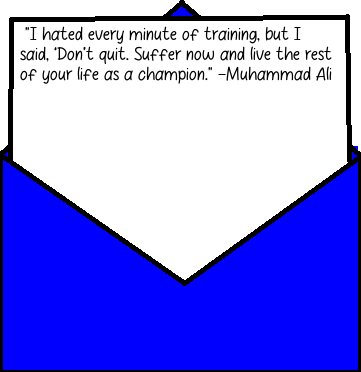
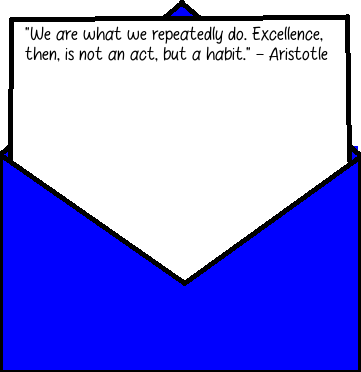
Readme of the project

Changed region(s): [[0.0609, 0.0591, 0.9141, 0.2366]]

diff --git a/README.md b/README.md
@@ -1,2 +1,129 @@
-# CS50x
-Store all CS50x course work and projects
+# Final project - InspireVerse
+
+Website that gives motivation phrases everyday for the user
+
+## Starting
+
+### Tools
+
+![Visual Studio Code](https://img.shields.io/badge/-Visual%20Studio%20Code-0D1117?style=for-the-badge&logo=visual-studio-code&logoColor=007ACC&labelColor=0D1117)&nbsp;
+
+- Start a virtual environment
+
+```
+> mkdir myproject
+> cd myproject
+> py -3 -m venv .venv
+>.venv\Scripts\activate
+```
+
+
+- Install flask and flask_session
+
+```
+pip install Flask
+```
+```
+pip install Flask_Session
+```
+
+- Install pyttsx3
+
+```
+pip install pyttsx3
+```
+
+- Install pillow
+
+```
+pip install Pillow
+```
+
+- Run the program - after started a venv
+
+```
+python3 -m flask run
+```
+
+## Operation
+
+- Login page
+
+<img width="960" alt="Login Page" src="https://github.com/Pennini/Pennini/assets/135245057/37e548b5-69da-413b-86e9-366b265b02dd">
+
+<hr>
+
+- Register page
+
+<img width="960" alt="Register Page" src="https://github.com/Pennini/Pennini/assets/135245057/88206983-d362-44cd-b56f-027e7dca19cc">
+
+<hr>
+
+- Homepage
+
+<img width="960" alt="Homepage" src="https://github.com/Pennini/Pennini/assets/135245057/4ad14191-0bc2-4fc8-8376-0ff0115bec06">
+
+    1. You can open the envelope to see a new phrase everyday
+
+<img width="960" alt="Open Envelope" src="https://github.com/Pennini/Pennini/assets/135245057/a8d55802-551c-454d-a83d-5eca05c40bbe">
+    
+    2. You can click the button to listen to the phrase
+
+https://github.com/Pennini/Pennini/assets/135245057/43a08c8f-9f6b-44ae-b1ac-ef9ce7a47c3e
+
+<hr>
+
+- Add a phrase
+
+<img width="960" alt="Add a phrase Page" src="https://github.com/Pennini/Pennini/assets/135245057/e5b70607-5896-4bc7-bb47-78d5d3b0783d">
+
+    1. You can add phrases for only you to see
+
+    2. You can remove the phrase if you don't want anymore
+    
+    3. You can search for a specific phrase
+
+https://github.com/Pennini/Pennini/assets/135245057/b96f6af2-a92b-40ea-ae03-768df7195d5c
+
+<hr>
+
+- History
+
+    1. You can see all the phrases that appeared in the envelope for you
+
+<img width="960" alt="Captura de tela 2023-09-18 104812" src="https://github.com/Pennini/Pennini/assets/135245057/9c4e15d3-9f47-4d3b-a720-03741bdbb855">
+
+
+    2. You can search by date, phrase or author
+
+<img width="960" alt="Captura de tela 2023-09-18 104851" src="https://github.com/Pennini/Pennini/assets/135245057/57028f54-9b53-4165-aa04-3299819baf5a">
+
+## The database
+
+I divided the database in 4 tables
+
+<img width="434" alt="Captura de tela 2023-09-18 105305" src="https://github.com/Pennini/Pennini/assets/135245057/8c11c3a7-3801-45db-a0d4-9c7ec6290b42">
+
+- users
+    
+Store all users with username, email, hashed password, full name and date of birth.
+
+<img width="120" alt="users" src="https://github.com/Pennini/Pennini/assets/135245057/74ba2427-53a0-4d25-907a-af0784495ac4">
+
+- phrases
+
+Store all sentences that may appear on the envelope with the author's name.
+
+<img width="124" alt="phrases" src="https://github.com/Pennini/Pennini/assets/135245057/ea9fcfe7-5d64-4d88-982d-3c0de649da38">
+
+- user phrases
+
+Store all sentences the user wants to save. If the user removes a phrase, the status of the phrase will change and it will no longer be used
+
+<img width="118" alt="user_phrases" src="https://github.com/Pennini/Pennini/assets/135245057/0db99e71-8f69-4721-bcd1-6f1eda263314">
+
+- history
+
+Store all phrases that appeared in the envelope for the user and associate with the phrase id in the right table (phrases or user_phrases)
+
+<img width="123" alt="history" src="https://github.com/Pennini/Pennini/assets/135245057/767f7d5c-6b11-443a-a598-5170fe099957">
